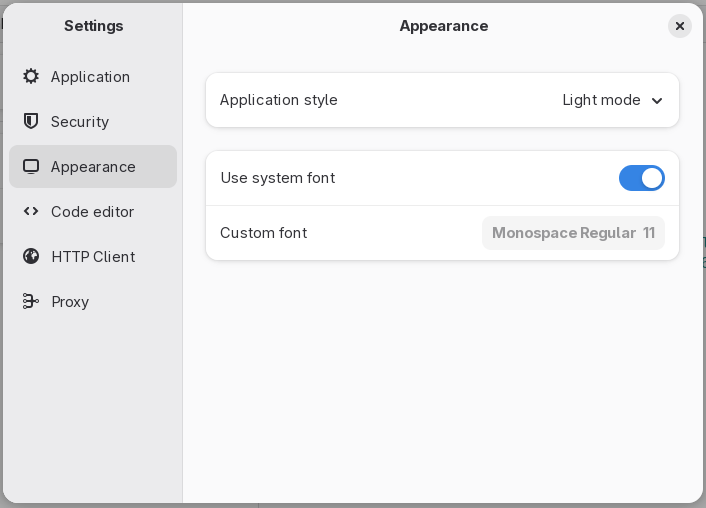
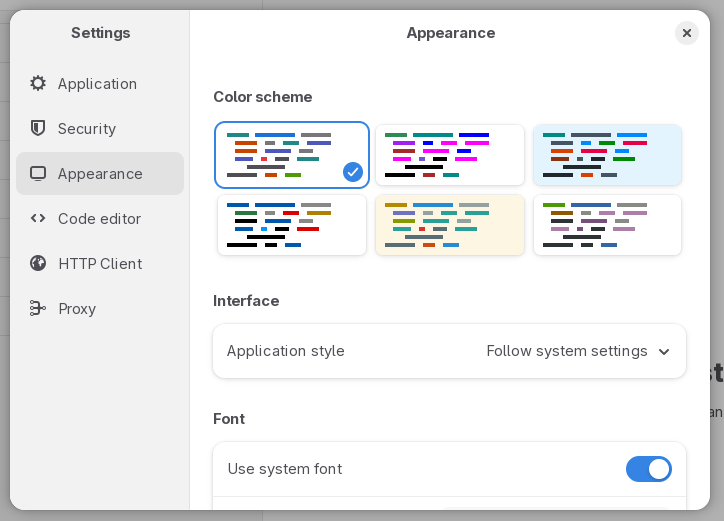
Update docs

diff --git a/docs/src/settings.md b/docs/src/settings.md
@@ -62,6 +62,7 @@ dangerous actions.
 
 Control how the application looks.
 
+* **Color scheme**: the color palette in use by the text editors and app.
 * **Application style**: set the theme to light, dark, or use the global
   style defined by the settings of your operating system.
 * **Use system font**: when enabled, Cartero will use the default monospace

diff --git a/docs/src/usage.md b/docs/src/usage.md
@@ -19,7 +19,7 @@ To start a new session, you will probably want to create a request. There are ma
 
 ## The endpoint layout
 
-In Cartero 25.0, the endpoint pane is organized in sections:
+In Cartero 25.1, the endpoint pane is organized in sections:
 
 ![A screenshot of the empty request panel of Cartero](images/cartero-areas.png)
 
